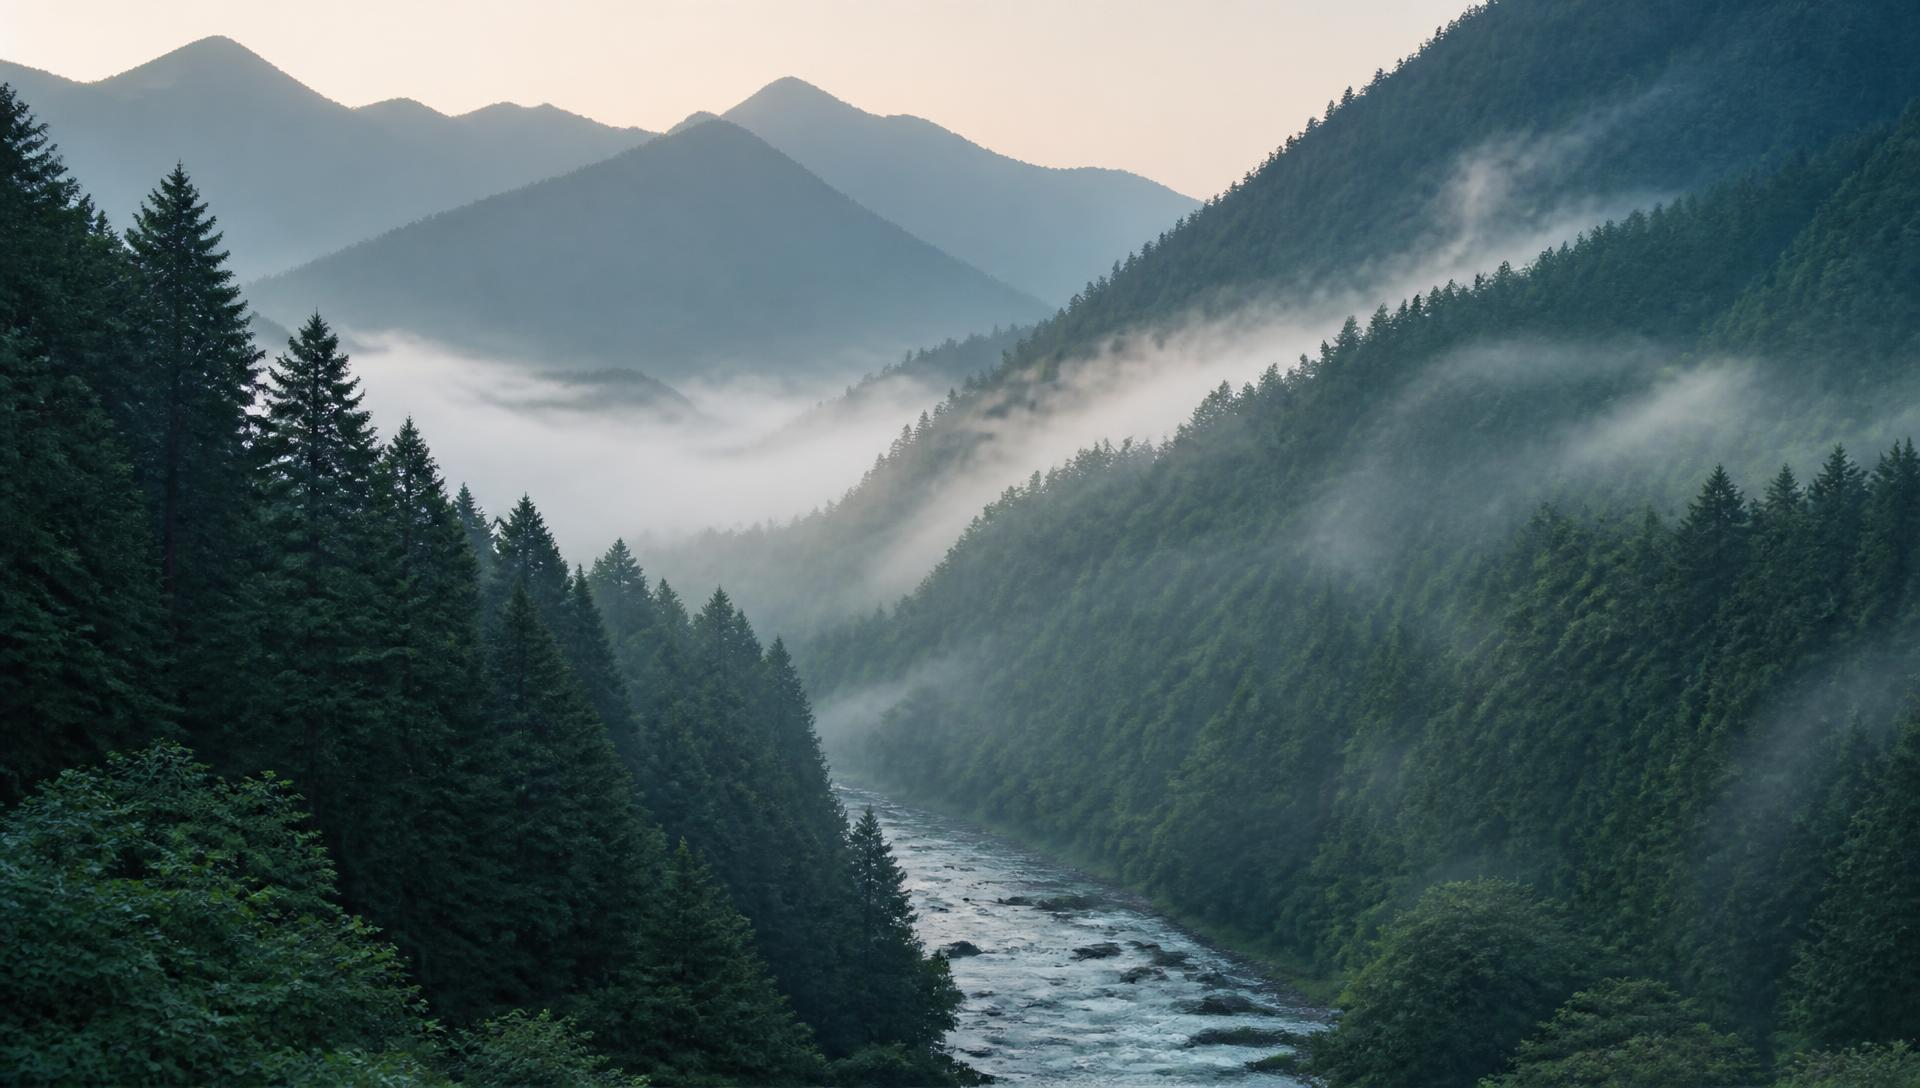
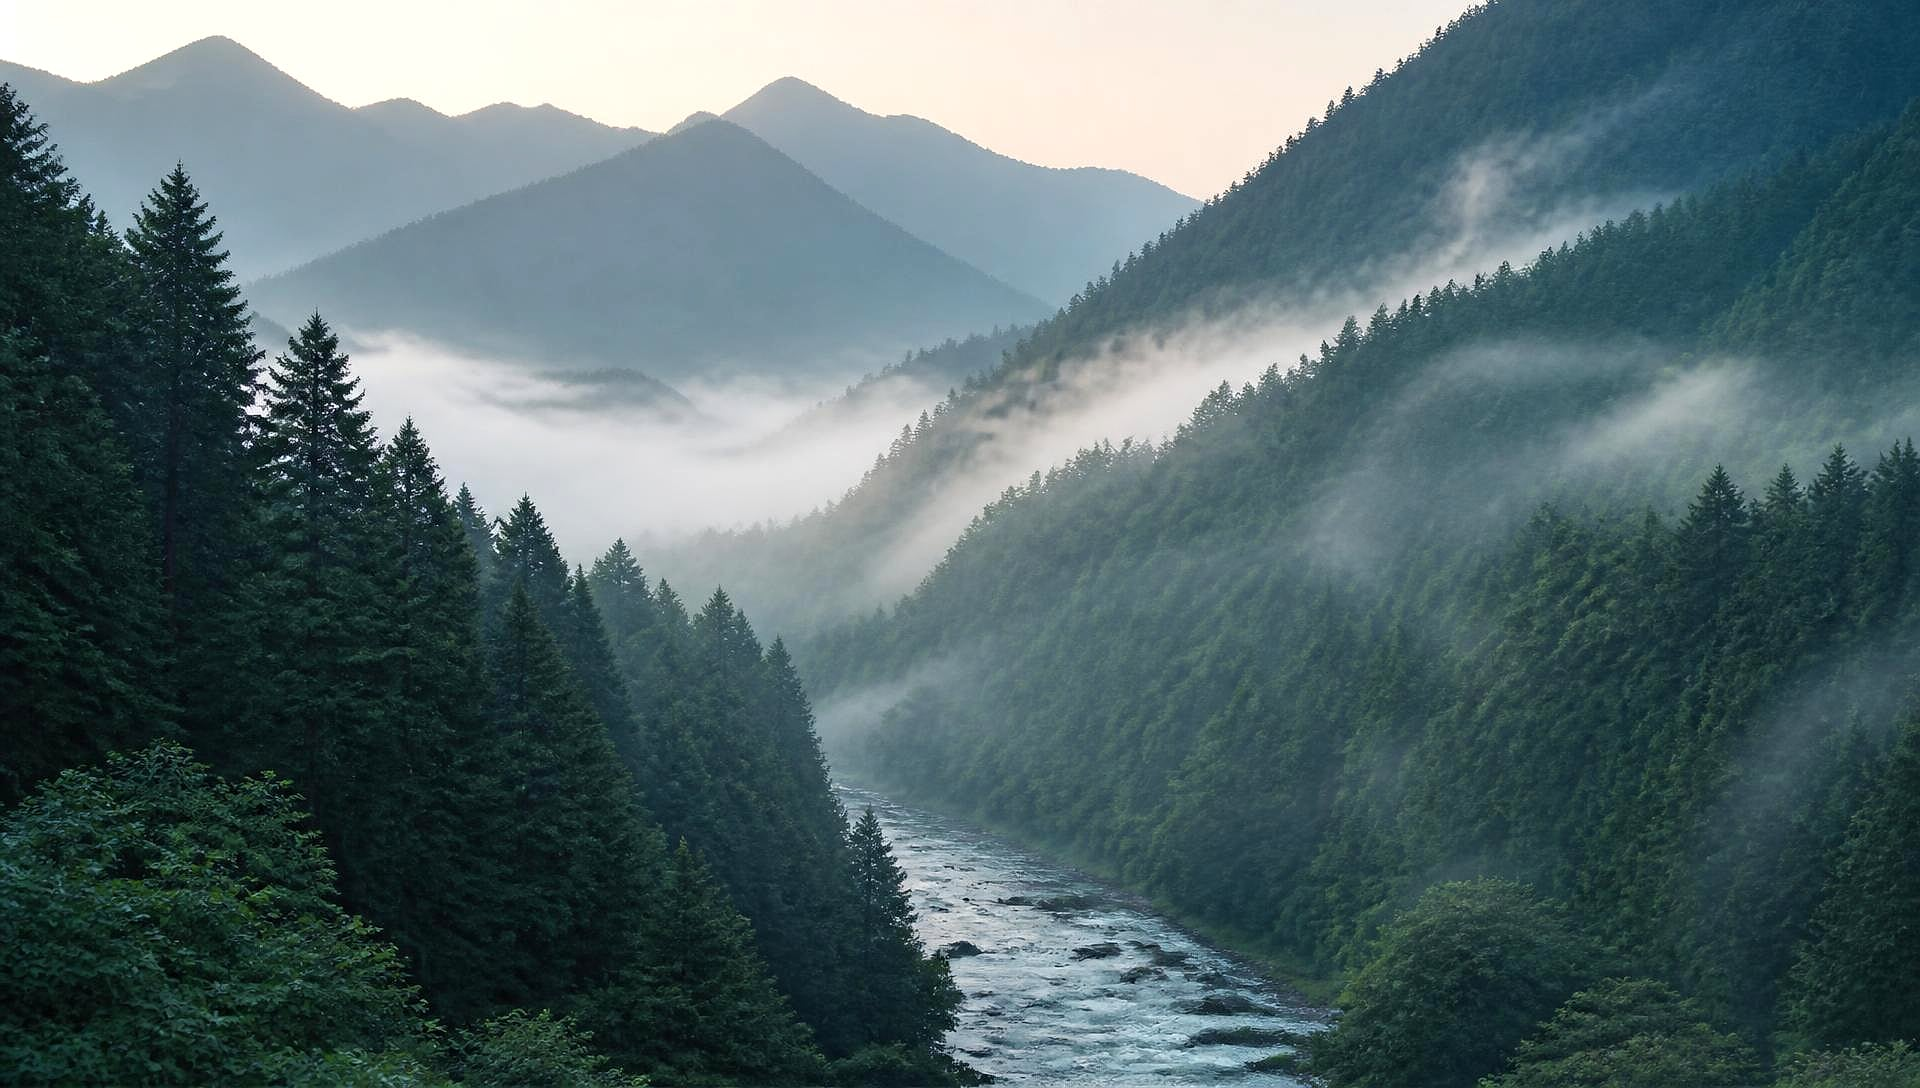
Redesign homepage Hero as a cinematic two-scene sequence
Replaces the single static Hero photo with a crossfading, slow-Ken-Burns
sequence built from the two genuinely scenic hero photos on hand
(nishitama-hero.jpg, nishitama-hero(3).JPG). The other two supplied images
(hero(1), hero(2)) are tourist snapshots -- a station signpost, a hand
holding a notebook -- not landscape photography, so they're intentionally
excluded from the rotation (per user confirmation).

- config/images.ts: new `heroScenes` array; `hero` key kept unchanged.
- Hero.tsx: scene state machine with auto-advance (6.5s/scene, 1.5s
  crossfade), manual dot controls + pause/play, prefers-reduced-motion
  handling (freezes on scene 1, no autoplay, no Ken Burns transform).
  All existing content (kicker/title/motto/lead/both CTAs/scroll hint)
  and the useLang()/Localized/pick() i18n architecture are unchanged --
  only the background presentation and layout chrome around it changed.
- NishiTamaMapMark.tsx: new subtle lower-right geographic mark, a
  hand-traced simplified outline of the 8 Nishi Tama municipalities
  (no existing map/SVG asset was found in the project to reuse).
- Fixed a real CSS stacking-context bug found during testing: the
  per-scene crossfade layers used explicit z-index (0/1) inside a
  non-stacking-context parent, which let them paint above the new
  gradient/scrim overlays regardless of DOM order. Added `isolate` to
  contain it -- confirmed via pixel-diff testing before/after.
[…]

diff --git a/frontend/src/components/site/Hero.tsx b/frontend/src/components/site/Hero.tsx
@@ -1,24 +1,122 @@
+import { useCallback, useEffect, useRef, useState } from "react";
 import { Link } from "@tanstack/react-router";
 import { images } from "@/config/images";
 import { useLang } from "@/lib/i18n";
 import { ui } from "@/lib/dictionary";
+import { NishiTamaMapMark } from "./NishiTamaMapMark";
+
+const SCENES = images.heroScenes;
+
+// Suggested pacing from the design brief: 5-7s per scene, ~1.2-1.8s crossfade.
+const SCENE_DURATION_MS = 6500;
+const CROSSFADE_MS = 1500;
+
+/** Tracks the user's OS-level reduced-motion preference (SSR-safe default: false). */
+function usePrefersReducedMotion() {
+  const [reduced, setReduced] = useState(false);
+  useEffect(() => {
+    const mq = window.matchMedia("(prefers-reduced-motion: reduce)");
+    setReduced(mq.matches);
+    const onChange = (e: MediaQueryListEvent) => setReduced(e.matches);
+    mq.addEventListener("change", onChange);
+    return () => mq.removeEventListener("change", onChange);
+  }, []);
+  return reduced;
+}
 
 export function Hero() {
   const { t } = useLang();
+  const reducedMotion = usePrefersReducedMotion();
+  const [index, setIndex] = useState(0);
+  const [generation, setGeneration] = useState(0);
+  const [paused, setPaused] = useState(false);
+  const sceneCount = SCENES.length;
+  const hasMultipleScenes = sceneCount > 1;
+
+  // `generation` forces the active <img> to remount even when looping back
+  // to the same index (4→1 in the general case), so its Ken Burns animation
+  // always restarts from scratch rather than freezing on its end frame.
+  const goTo = useCallback(
+    (next: number) => {
+      setIndex(((next % sceneCount) + sceneCount) % sceneCount);
+      setGeneration((g) => g + 1);
+    },
+    [sceneCount],
+  );
+
+  useEffect(() => {
+    if (!hasMultipleScenes || paused || reducedMotion) return;
+    const id = window.setTimeout(() => goTo(index + 1), SCENE_DURATION_MS);
+    return () => window.clearTimeout(id);
+  }, [index, paused, reducedMotion, hasMultipleScenes, goTo]);
 
   return (
-    <section className="relative flex min-h-[88svh] items-center justify-center overflow-hidden lg:min-h-[94svh]">
-      <img
-        src={images.hero}
-        alt="Mist rising over the forested mountains and river valleys of Nishi Tama, western Tokyo"
-        width={1920}
-        height={1088}
-        fetchPriority="high"
-        className="absolute inset-0 h-full w-full object-cover object-[60%_center] sm:object-center"
-      />
+    <section
+      className="relative flex min-h-[88svh] items-center justify-center overflow-hidden lg:min-h-[94svh]"
+      onMouseEnter={() => setPaused(true)}
+      onMouseLeave={() => setPaused(false)}
+    >
+      {/* `isolate` traps the per-scene z-index (0/1, used for crossfade
+          layering) inside this container's own stacking context — without
+          it, those z-indices leak into the section's stacking order and can
+          paint above the gradient overlays below, regardless of DOM order. */}
+      <div className="absolute inset-0 isolate">
+        {SCENES.map((src, i) => {
+          const active = i === index;
+          return (
+            <div
+              key={i}
+              aria-hidden={!active}
+              className="absolute inset-0 transition-opacity"
+              style={{ transitionDuration: `${CROSSFADE_MS}ms`, opacity: active ? 1 : 0, zIndex: active ? 1 : 0 }}
+            >
+              <img
+                // Remounting only the active layer (via the `generation` key)
+                // restarts its Ken Burns animation on every activation,
+                // including the loop back to scene 0.
+                key={active ? `${i}-${generation}` : i}
+                src={src}
+                alt=""
+                width={1920}
+                height={1088}
+                fetchPriority={i === 0 ? "high" : "low"}
+                loading={i === 0 ? "eager" : "lazy"}
+                className={`h-full w-full object-cover object-[60%_center] sm:object-center ${
+                  active && !reducedMotion ? "hero-kenburns" : ""
+                }`}
+                style={
+                  active && !reducedMotion
+                    ? {
+                        animationDuration: `${SCENE_DURATION_MS + CROSSFADE_MS}ms`,
+                        ["--kb-tx" as string]: i % 2 === 0 ? "-1.6%" : "1.4%",
+                        ["--kb-ty" as string]: i % 2 === 0 ? "-1%" : "-1.2%",
+                      }
+                    : undefined
+                }
+              />
+            </div>
+          );
+        })}
+      </div>
+
+      {/* A single, fixed screen-reader description of the Hero photography —
+          kept independent of which scene is currently visible, since the
+          scenes are a decorative atmosphere rather than distinct content. */}
+      <span className="sr-only">
+        Mist and evening light over the forested mountains and river valleys of Nishi Tama, western Tokyo
+      </span>
+
       <div
         aria-hidden="true"
-        className="absolute inset-0 bg-[linear-gradient(to_bottom,color-mix(in_oklab,var(--charcoal)_62%,transparent)_0%,color-mix(in_oklab,var(--charcoal)_28%,transparent)_38%,color-mix(in_oklab,var(--forest-deep)_72%,transparent)_100%)]"
+        className="absolute inset-0 bg-[linear-gradient(to_bottom,color-mix(in_oklab,var(--charcoal)_66%,transparent)_0%,color-mix(in_oklab,var(--charcoal)_46%,transparent)_42%,color-mix(in_oklab,var(--forest-deep)_76%,transparent)_100%)]"
+      />
+      {/* A second, focused scrim behind the text column only — keeps the
+          headline/lead readable regardless of which scene's brightness is
+          behind it (the misty valley and the sunlit river read very
+          differently), without darkening the photo at its edges/corners. */}
+      <div
+        aria-hidden="true"
+        className="absolute inset-0 bg-[radial-gradient(62%_55%_at_50%_48%,color-mix(in_oklab,var(--charcoal)_46%,transparent)_0%,transparent_75%)]"
       />
 
       <div className="relative z-10 mx-auto w-full max-w-4xl px-6 pb-24 pt-32 text-center sm:pb-28">
@@ -50,6 +148,47 @@ export function Hero() {
         </div>
       </div>
 
+      {hasMultipleScenes && (
+        <div className="absolute bottom-7 left-5 z-10 flex items-center gap-2.5 sm:bottom-8 sm:left-8">
+          <button
+            type="button"
+            onClick={() => setPaused((p) => !p)}
+            aria-label={paused ? "Resume scene playback" : "Pause scene playback"}
+            className="flex h-7 w-7 items-center justify-center rounded-full text-cream/70 transition-colors hover:text-cream focus-visible:outline focus-visible:outline-2 focus-visible:outline-cream/80"
+          >
+            {paused ? (
+              <svg viewBox="0 0 24 24" aria-hidden="true" className="h-3 w-3" fill="currentColor">
+                <path d="M7 5v14l12-7Z" />
+              </svg>
+            ) : (
+              <svg viewBox="0 0 24 24" aria-hidden="true" className="h-3 w-3" fill="currentColor">
+                <path d="M7 5h3v14H7Zm7 0h3v14h-3Z" />
+              </svg>
+            )}
+          </button>
+          <div className="flex items-center gap-2">
+            {SCENES.map((_, i) => (
+              <button
+                key={i}
+                type="button"
+                onClick={() => goTo(i)}
+                aria-label={`Show scene ${i + 1} of ${sceneCount}`}
+                aria-current={i === index}
+                className="flex h-7 w-4 items-center justify-center focus-visible:outline focus-visible:outline-2 focus-visible:outline-cream/80"
+              >
+                <span
+                  className={`block h-1.5 rounded-full transition-all duration-500 ${
+                    i === index ? "w-5 bg-cream" : "w-1.5 bg-cream/45 hover:bg-cream/70"
+                  }`}
+                />
+              </button>
+            ))}
+          </div>
+        </div>
+      )}
+
+      <NishiTamaMapMark className="absolute bottom-6 right-5 z-10 sm:bottom-8 sm:right-8" />
+
       <a
         href="#discover"
         className="absolute bottom-7 left-1/2 z-10 flex -translate-x-1/2 flex-col items-center gap-3 text-cream/70 transition-colors hover:text-cream"
@@ -60,7 +199,14 @@ export function Hero() {
         </span>
       </a>
 
-      <style>{`@keyframes scrollhint{0%{transform:translateY(-100%)}60%{transform:translateY(300%)}100%{transform:translateY(300%)}}`}</style>
+      <style>{`
+        @keyframes scrollhint{0%{transform:translateY(-100%)}60%{transform:translateY(300%)}100%{transform:translateY(300%)}}
+        @keyframes heroKenBurns{
+          from{transform:scale(1) translate3d(0,0,0);}
+          to{transform:scale(1.06) translate3d(var(--kb-tx,-1.5%),var(--kb-ty,-1%),0);}
+        }
+        .hero-kenburns{animation-name:heroKenBurns;animation-timing-function:ease-out;animation-fill-mode:forwards;will-change:transform;}
+      `}</style>
     </section>
   );
 }

diff --git a/frontend/src/components/site/NishiTamaMapMark.tsx b/frontend/src/components/site/NishiTamaMapMark.tsx
@@ -1,0 +1,38 @@
+/**
+ * A small geographic identity mark: a stylised outline of the Nishi Tama
+ * region (the 8 municipalities west of central Tokyo — Ome, Fussa, Hamura,
+ * Akiruno, Mizuho, Hinode, Hinohara, Okutama). Traced by hand from the
+ * region's real silhouette (a wider eastern base along the Tama River
+ * plain, narrowing west into two mountainous prongs — Okutama to the
+ * northwest, Hinohara to the southwest) since no GIS/SVG asset for the
+ * region exists in the project. This is a simplified geographic likeness
+ * for use as a subtle brand mark, not a surveyed boundary.
+ *
+ * Deliberately non-interactive, thin-lined and low-opacity — a signature,
+ * not a feature. "NISHI TAMA" is set as plain text rather than through the
+ * Localized/useLang system, matching the same treatment already used for
+ * the brand name in Header.tsx (a proper noun shown identically in every
+ * language, not a translated UI string).
+ */
+export function NishiTamaMapMark({ className = "" }: { className?: string }) {
+  return (
+    <div className={`pointer-events-none flex flex-col items-end gap-1.5 ${className}`} aria-hidden="true">
+      <svg
+        viewBox="0 0 200 160"
+        className="h-16 w-auto text-cream/80 drop-shadow-[0_1px_3px_rgba(0,0,0,0.35)] sm:h-20 md:h-[5.5rem]"
+        fill="none"
+        stroke="currentColor"
+        strokeWidth={1.4}
+        strokeLinejoin="round"
+        strokeLinecap="round"
+      >
+        <path
+          d="M178,55 188,48 192,60 186,72 190,82 180,92 170,88 162,100 168,112 158,124 146,120 136,132 120,138 108,148 92,146 78,152 62,146 48,150 34,138 40,124 28,116 34,100 22,90 28,76 18,62 26,48 20,34 32,24 44,30 56,18 70,26 84,16 98,24 110,16 124,26 138,20 148,32 162,28 170,40 Z"
+          opacity={0.9}
+        />
+        <circle cx="118" cy="70" r="2.6" fill="currentColor" stroke="none" opacity={0.9} />
+      </svg>
+      <span className="eyebrow text-[0.6rem] tracking-[0.28em] text-cream/70">NISHI TAMA</span>
+    </div>
+  );
+}

diff --git a/frontend/src/config/images.ts b/frontend/src/config/images.ts
@@ -17,6 +17,11 @@ export const images = {
   // ============================================================
 
   hero: "/images/nishitama-hero.jpg",
+  // Cinematic Hero background sequence. Only genuinely scenic photographs
+  // belong here — nishitama-hero(1).JPG and nishitama-hero(2).JPG are
+  // tourist snapshots (a station signpost, a hand holding a notebook),
+  // not landscape photography, so they're intentionally excluded.
+  heroScenes: ["/images/nishitama-hero.jpg", "/images/nishitama-hero(3).JPG"],
   nishitama: "/images/nishitama-overview.jpg",
 
   // ============================================================
